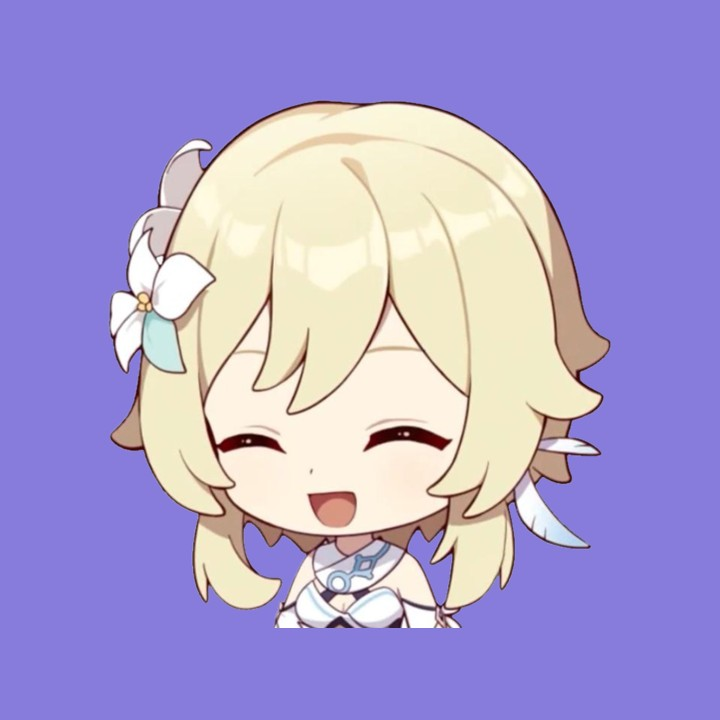
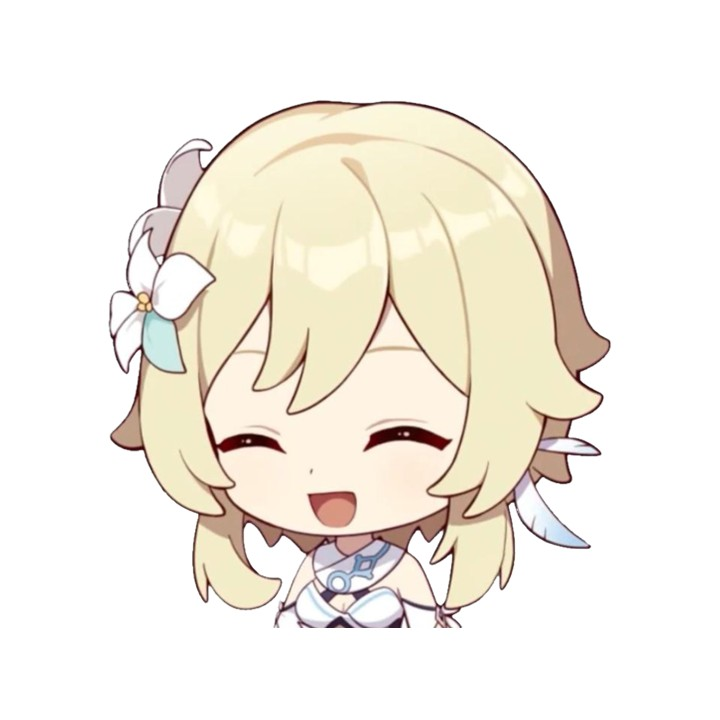
Change chatbot profile picture

diff --git a/src/main/java/lumine/ui/MainWindow.java b/src/main/java/lumine/ui/MainWindow.java
@@ -29,7 +29,7 @@ public class MainWindow extends AnchorPane {
     private final Image userImage = new Image(Objects.requireNonNull(
             MainWindow.class.getResource("/images/user.gif")).toExternalForm());
     private final Image lumineImage = new Image(Objects.requireNonNull(
-            MainWindow.class.getResource("/images/lumine_profile.jpg")).toExternalForm());
+            MainWindow.class.getResource("/images/lumine_profile.png")).toExternalForm());
 
     @FXML
     private void initialize() {
